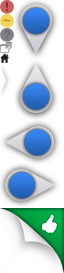
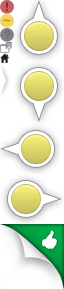
Reverted pointer arrow to standard Suite yellow styles, and minor tweaks to the shadows and borders

diff --git a/Plugins/ViperAccessibilityPlugin/ViperAccessibilityPlugin.css b/Plugins/ViperAccessibilityPlugin/ViperAccessibilityPlugin.css
@@ -481,13 +481,13 @@
 
 /* Pointer */
 .ViperAP-pointer {
-    width: 44px;
-    height: 60px;
+    width: 50px;
+    height: 62px;
     position: absolute;
     top: 0px;
     left: 0px;
     z-index: 9999;
-    background: transparent url(Images/issueImages.png) -14px 0 no-repeat;
+    background: transparent url(Images/issueImages.png) -14px -62px no-repeat;
 }
 
 .ViperAP-pointer-hidden {
@@ -495,16 +495,16 @@
 }
 
 .ViperAP-pointer-up {
-    background-position: -14px -60px ;
+    background-position: -14px 0;
 }
 
 .ViperAP-pointer-left,
 .ViperAP-pointer-right {
-    width: 60px;
-    height: 44px;
-    background-position: 0 -120px ;
+    width: 62px;
+    height: 50px;
+    background-position: 0 -124px;
 }
 
 .ViperAP-pointer-right {
-    background-position: 0 -164px ;
+    background-position: 0 -174px;
 }
